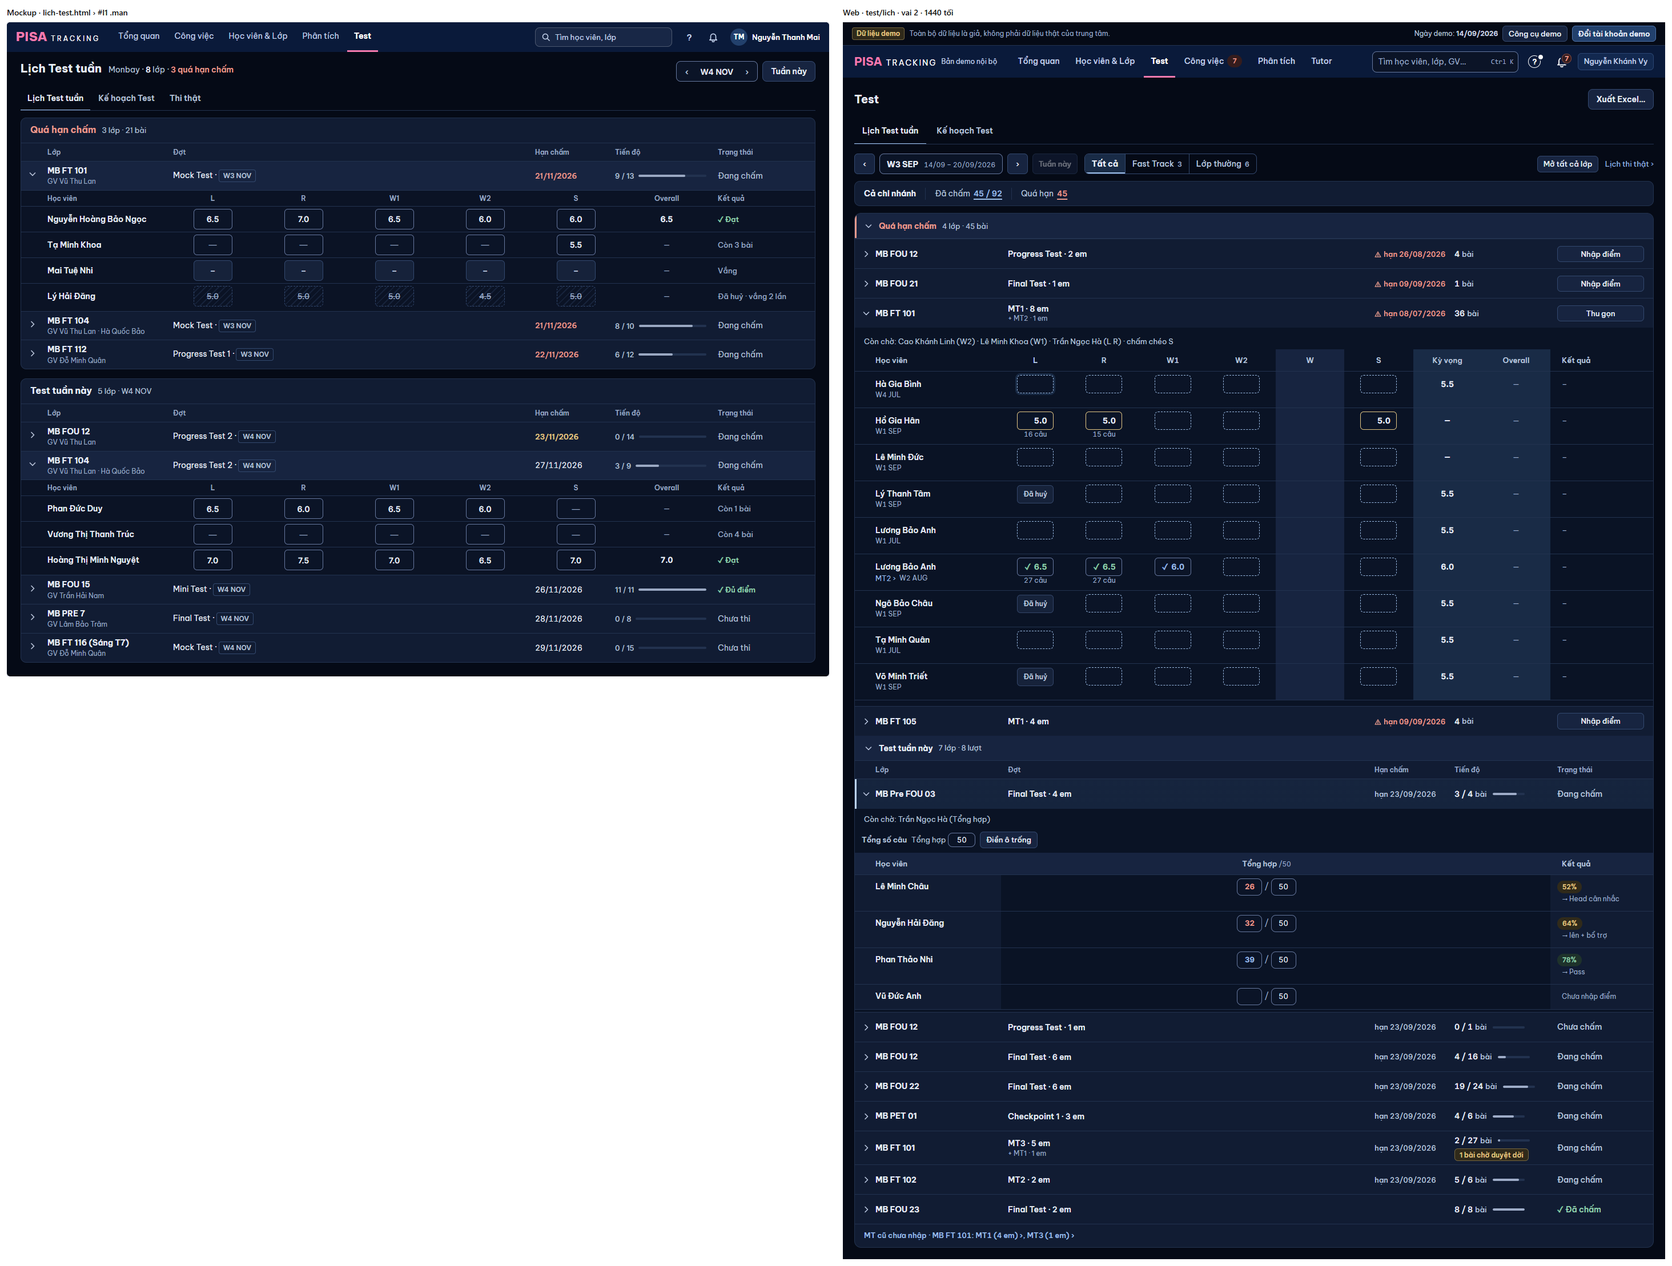
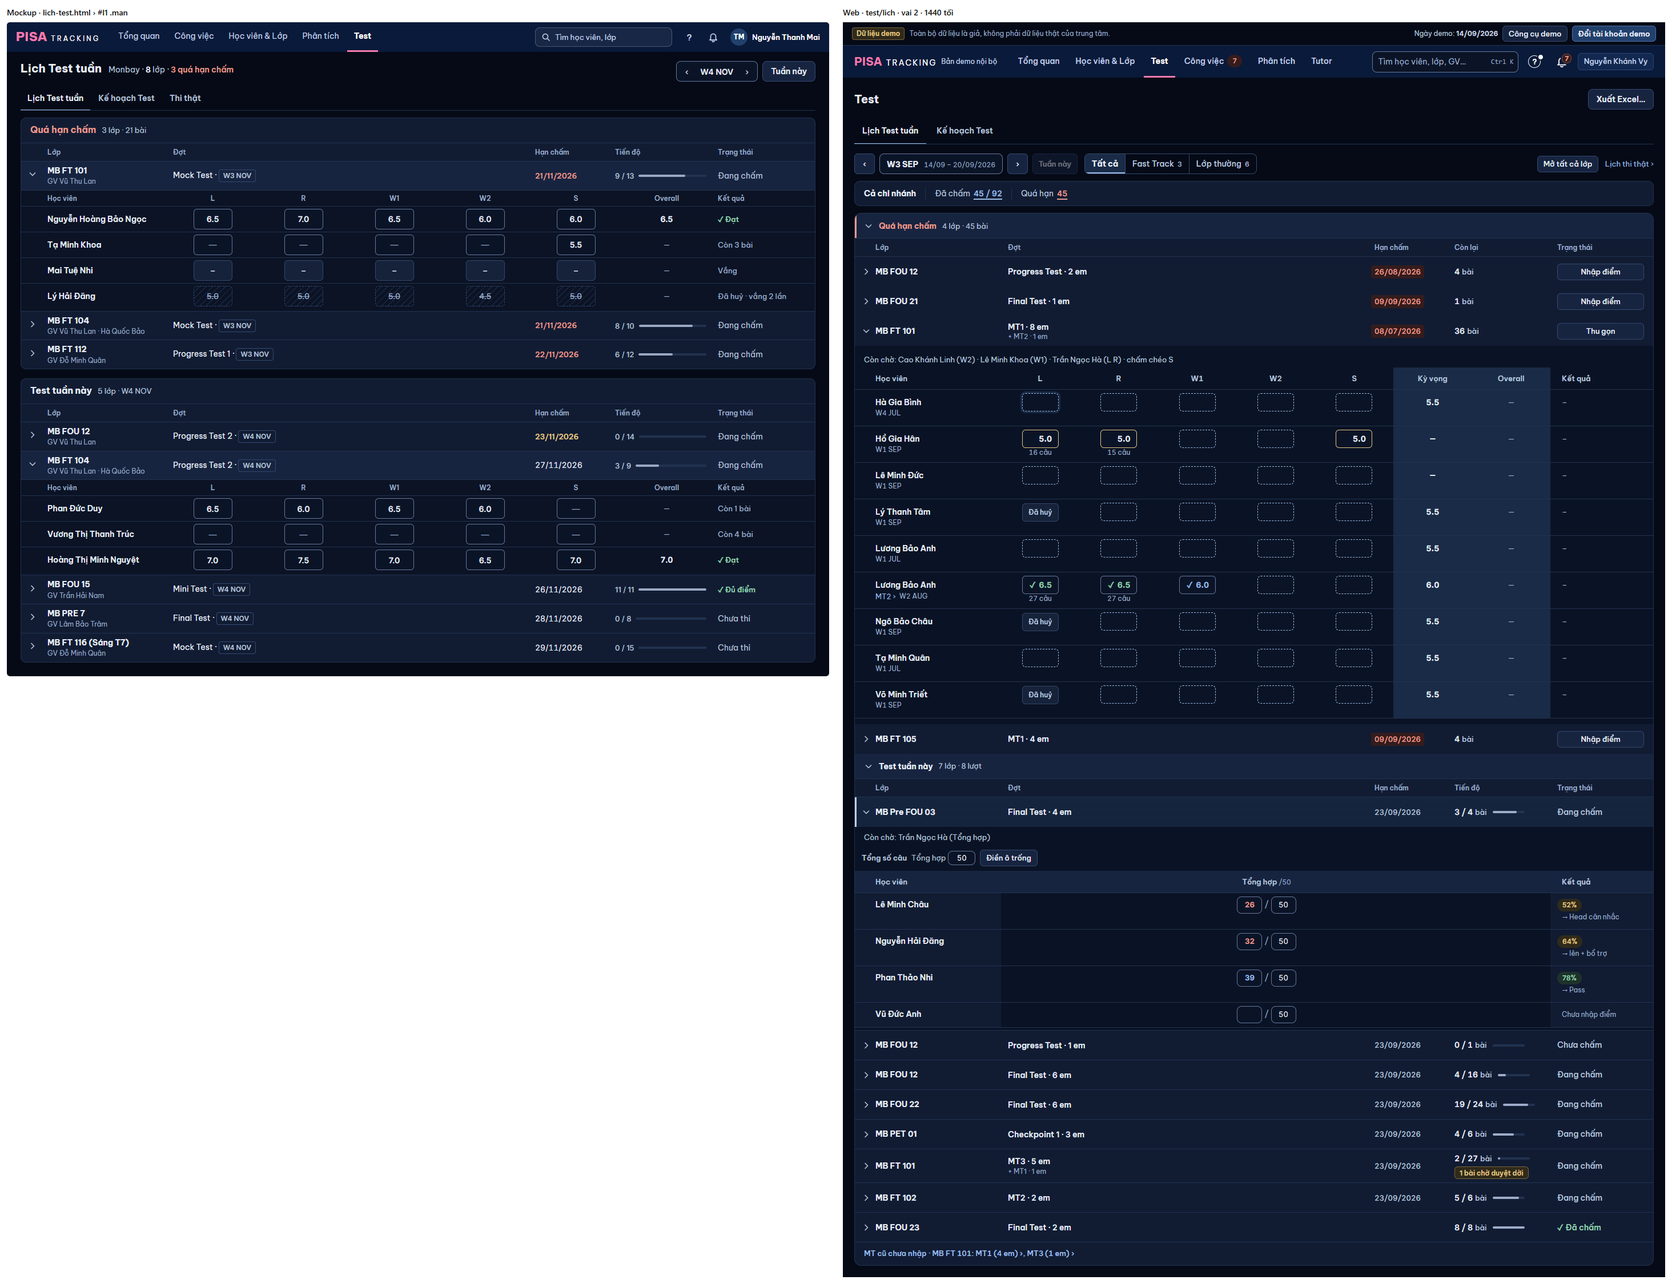
NHẸ HƠN PR-4 (PTA rà #1998): Han trongBang chỉ ngày tô màu; Quá hạn chấm có đầu cột chung; ẩn cột W trống; panel một lớp cũng có khối, lưới hết bề ngang, chân Đã lưu; ảnh Mock C1 / C3

diff --git a/web/src/modules/congViec/PanelNhapDiemTuan.tsx b/web/src/modules/congViec/PanelNhapDiemTuan.tsx
@@ -5,7 +5,8 @@ import { LuoiTrongPanel } from '../../ui/LuoiTrongPanel.tsx';
 import { DauViecCongViec, KhungPanel } from '../../ui/KhungPanel.tsx';
 import { ChipHan } from '../../ui/Nhan.tsx';
 import { MuiChev } from '../../ui/HangNhom.tsx';
-import { dauViec } from '../../ui/KhuonViec.tsx';
+import { ChuLuu, dauViec } from '../../ui/KhuonViec.tsx';
+import { gioVnNay } from './gioVn.ts';
 import { useNgayNghiepVu } from '../../ui/ngayNghiepVu.ts';
 import { duongCham, type Cham } from '../cham/LuoiChamLop.tsx';
 import { LuoiNhung } from '../test/lichTest/LuoiNhung.tsx';
@@ -56,6 +57,9 @@ export function PanelNhapDiemTuan({ it, tuMo, onDong, onDaLam, onTiep }: { it: W
   const [tieuDe] = useState(() => (chiXem ? (motLop && it.tieuDe ? t('Điểm {skills}', { skills: dich(it.tieuDe.replace(/^Nhập điểm /, '')) }) : t('Điểm · {tuan}', { tuan: it.tuanThi ? tuanLich(it.tuanThi) : '' }))
     : motLop && it.tieuDe ? dich(it.tieuDe) : t('Nhập điểm · {tuan}', { tuan: it.tuanThi ? tuanLich(it.tuanThi) : '' })));
   const [mo, setMo] = useState<ReadonlySet<string>>(() => new Set([lop[0].key]));
+  /* NHẸ HƠN (v23 C1 chân "✓ Đã lưu 15:40 · 9 / 16 bài"): giờ lưu ô gần nhất (ô đang lưu / lỗi báo ngay tại ô — không lặp ở chân). */
+  const [luc, setLuc] = useState<string | null>(null);
+  const daLuu = () => { setLuc(gioVnNay()); onDaLam(); };
   const periodId = lop[0].periodId ?? null;
   const dau = dauViec({
     han: it.due ? <ChipHan loai={LOAI_HAN_CUA_VIEC.score ?? 'nhap-diem'} han={it.due} /> : null,
@@ -68,17 +72,20 @@ export function PanelNhapDiemTuan({ it, tuMo, onDong, onDaLam, onTiep }: { it: W
   const luoiLop = (x: WorkItem, lopKhung: string) => (
     <LuoiTrongPanel className={lopKhung}>
       <LuoiNhung chiHv={emCuaViec(x)} classId={x.classId!} periodId={x.periodId ?? null} kind={x.kind ?? null} tuanDangXem={x.tuanThi ?? null} kn={x.kn ?? null}
-                    hrefDayDu={duongLichTest({ classId: x.classId, periodId: x.periodId })} onDaLuu={onDaLam} chiCot={x.kns ?? (x.kn ? [x.kn] : null)}
+                    hrefDayDu={duongLichTest({ classId: x.classId, periodId: x.periodId })} onDaLuu={daLuu} chiCot={x.kns ?? (x.kn ? [x.kn] : null)}
                     emCoBaiTuan={(x.kind ?? 'mock') === 'mock'} luoiGon
                     /* OV-14b: lớp đầu (mở sẵn) cuộn ngang tới cột của việc + con trỏ ở ô trống đầu cột đó; lớp mở sau không giật trang. */
                     datConTro={(!tuMo && !!x.kn && x.key === lop[0].key) || x.key === conTro} onHet={hetLop(x)} />
     </LuoiTrongPanel>
   );
+  const trai = luc ? <span className="text-[13px]"><ChuLuu tt="da" luc={luc} />{motLop && demBai ? <span className="tabular-nums text-dim"> · {t('còn {con} / {tong} bài', demBai)}</span> : null}</span> : null;
+  const chanTiep = chanViecTiep(onTiep, false);
+  const chan = chanTiep || trai ? { ...(chanTiep ?? { huy: null }), trai } : undefined;
   return (
     /* NHẸ HƠN (v23 C1): panel bảng ~75 % (`rong="bang"`). */
-    <KhungPanel hd="nhap-diem" rong="bang" tieuDe={tieuDe} dau={dau} onDong={onDong} chan={chanViecTiep(onTiep, false)} quyChe={quyCheNhapDiem({ thuong: it.khung === 'thuong', mt0: it.kind === 'mt0', tuanThi: it.tuanThi ?? null, homNay, han: it.due })}>
+    <KhungPanel hd="nhap-diem" rong="bang" tieuDe={tieuDe} dau={dau} onDong={onDong} chan={chan} quyChe={quyCheNhapDiem({ thuong: it.khung === 'thuong', mt0: it.kind === 'mt0', tuanThi: it.tuanThi ?? null, homNay, han: it.due })}>
       {chiXem && <p className="m-0 pt-2 text-[13px] text-dim">{t('Chỉ xem · GV / Head nhập')}</p>}
-      {motLop ? luoiLop(lop[0], 'luoi-trong-panel -mx-4 px-5 pt-1') : (
+      {(
       /* NHẸ HƠN (v23 C1 `.kl` → `.pc-kl` ở index.css): MỖI LỚP MỘT KHỐI — đầu khối nổi (nền surface-2, vạch nhấn trái, mã lớp 16 / 700) · đợt + tuần · kỹ năng của bạn · số bài.
          Bấm đầu khối gập / mở (giữ: lưới chỉ tải khi mở — không thêm request). Không cắt chữ, xuống dòng khi chật. */
       <ul className="m-0 grid list-none gap-2 p-0 pt-3">

diff --git a/web/src/ui/Han.tsx b/web/src/ui/Han.tsx
@@ -1,6 +1,7 @@
-import { deadlineView, mucHan, ngayTheoGioVN, type DeadlineKind } from '@shared/domain/index.ts';
+import { deadlineView, mucHan, ngay, ngayTheoGioVN, type DeadlineKind } from '@shared/domain/index.ts';
 import { DauQuaHan, LOP_MUC_HAN } from './Nhan.tsx';
 import { useNgayNghiepVu } from './ngayNghiepVu.ts';
+import { t } from '@shared/i18n/index.ts';
 
 /**
  * MỌI HẠN ĐỀU CÓ LOẠI (HE_GIAO_DIEN §4, đóng lỗi F11).
@@ -18,7 +19,7 @@ import { useNgayNghiepVu } from './ngayNghiepVu.ts';
  *
  * Toàn bộ câu chữ nằm ở `deadlineView` (`shared/domain/display.ts`), mức ở `mucHan` — kiểm được bằng bộ kiểm thử máy chủ. Component này chỉ vẽ.
  */
-export function Han({ loai, han, hanGoc, hen, tienTo, ghiChu, coViec, soNgay, mo }: {
+export function Han({ loai, han, hanGoc, hen, tienTo, ghiChu, coViec, soNgay, mo, trongBang }: {
   loai: DeadlineKind;
   /** Hạn đang hiệu lực, dạng `2026-09-23`. `null` = chưa đặt. */
   han: string | null;
@@ -36,12 +37,22 @@ export function Han({ loai, han, hanGoc, hen, tienTo, ghiChu, coViec, soNgay, mo
   soNgay?: boolean;
   /** Việc của người khác: không tô màu (⚠ vẫn giữ — nói nghĩa không bằng màu). */
   mo?: boolean;
+  /** NHẸ HƠN (NH4, v23 Lịch Test `.han`): ô bảng có đầu cột "Hạn chấm" — CHỈ ngày dd/mm/yyyy tô màu, không chữ "hạn", không ⚠;
+   *  quá hạn thêm nền đỏ nhạt (dấu không chỉ bằng màu chữ). Chữ đầy đủ ở tooltip. */
+  trongBang?: boolean;
 }) {
   const { homNay } = useNgayNghiepVu();
   const v = deadlineView({ kind: loai, due: han, originalDue: hanGoc, reschedule: hen, today: homNay });
   const goc = hanGoc && ngayTheoGioVN(hanGoc) ? hanGoc : han;
   const muc = loai === 'du-kien-ket-thuc' || !goc ? 'xa' : mucHan(goc, homNay);
   const title = v.text + (v.title ? ` · ${v.title}` : '');
+  if (trongBang) {
+    return (
+      <span title={title} className={`whitespace-nowrap text-[13px] tabular-nums ${mo ? LOP_MUC_HAN.xa : LOP_MUC_HAN[muc]} ${muc === 'qua' && !mo ? '-mx-1.5 rounded bg-late-bg px-1.5 py-0.5' : ''}`}>
+        {muc === 'qua' && <span className="sr-only">{t('quá hạn')} </span>}{han ? ngay(han) : v.han}
+      </span>
+    );
+  }
   return (
     <span title={title} className="text-[13px] tabular-nums text-dim">
       {[tienTo, coViec && loai !== 'du-kien-ket-thuc' ? v.viec : null].filter(Boolean).map((x) => `${x} · `).join('')}

diff --git a/web/src/modules/test/lichTest/KhoiNo.tsx b/web/src/modules/test/lichTest/KhoiNo.tsx
@@ -8,7 +8,7 @@ import { chuOChuaLuu } from '@shared/domain/index.ts';
 import type { DongNoLop } from './kieu.ts';
 import { LuoiNhung } from './LuoiNhung.tsx';
 import { useManHinh } from '../../../ui/TheDong.tsx';
-import { COT_LICH_TEST, ColLichTest, DongConCho, DotChinh, ODot, TienDo, Vien, chuConCho, chuDot } from './HangLop.tsx';
+import { COT_LICH_TEST, ColLichTest, DauCotLichTest, DongConCho, DotChinh, ODot, TienDo, Vien, chuConCho, chuDot } from './HangLop.tsx';
 import { dich, t } from '@shared/i18n/index.ts';
 
 /** OV-11e (TE-7): số bài của người xem — người có phân công chỉ đếm phần của mình (dải số, badge khối, cột Còn cùng số). */
@@ -70,6 +70,7 @@ export function KhoiNo({ no, mo, onMo, dongMo, onMoDong, hep, onDaLuu, knUrl, ch
         {/* GD-11a (⑦ A1): hàng Quá hạn cùng bộ cột với hàng lớp (Lớp · Đợt · Hạn · số bài · nút — NHẸ HƠN bỏ Môn) — các bảng thẳng cột. */}
         <table className="lt-bang w-full text-sm bang-dinh" style={{ tableLayout: 'fixed' }}>
           {gon ? <colgroup><col /></colgroup> : <ColLichTest />}
+          {!gon && <DauCotLichTest cot4={t('Còn lại')} />}
           <tbody>
             {ds.map(({ d, xong }, i) => {
               const dangMo = dongMo?.d.key === d.key;
@@ -87,7 +88,7 @@ export function KhoiNo({ no, mo, onMo, dongMo, onMoDong, hep, onDaLuu, knUrl, ch
               const conCho = chuConCho(d.gvMon, d.chuongTrinh);   /* LICH-TEST-GON: ai còn chờ — dòng nhỏ trong phần lớp đã mở, không cột */
               const so = xong ? <Vien muc="xong">{t('Đã chấm')}</Vien> : <TienDo so={conCua(d)} />;
               /* NHẸ HƠN (luật hạn, v23 L1): bảng chỉ tô màu ngày (đỏ + ⚠ quá hạn) — không chip "quá hạn n ngày" (đầu khối đã nói Quá hạn chấm). */
-              const han = xong ? null : <Han loai="nhap-diem" han={d.han} />;
+              const han = xong ? null : <Han loai="nhap-diem" han={d.han} trongBang={!gon} />;
               const canhBao = loi > 0 && <Nhan tone="bad" title={t('Ô viền đỏ chưa lưu được — bấm Lưu lại ở ô đó.')}>{chuOChuaLuu(loi)}</Nhan>;
               const dot = chuDot(d.luot);
               const maLop = <Link to={`/hoc-vien/lop/${d.classId}`} className="lt-ma" title={t('Hồ sơ lớp {classCode}', { classCode: d.classCode })}>{d.classCode}</Link>;

diff --git a/web/src/modules/test/lichTest/HangLop.tsx b/web/src/modules/test/lichTest/HangLop.tsx
@@ -57,6 +57,14 @@ export const TienDo = ({ so, title, ti }: { so: ReactNode; title?: string; ti?: 
  */
 export const COT_LICH_TEST = [256, null, 140, 180, 180] as const;
 export const ColLichTest = () => <colgroup>{COT_LICH_TEST.map((w, i) => <col key={i} style={w ? { width: w } : undefined} />)}</colgroup>;
+/** Hàng tiêu đề cột chung (v23 L1: MỌI nhóm có đầu cột, cùng chữ) — khối Quá hạn chấm đổi cột 4 thành "Còn lại" (chỉ biết số bài còn nợ). */
+export const DauCotLichTest = ({ cot4 = t('Tiến độ') }: { cot4?: string }) => (
+  <thead>
+    <tr className="lt-cot">
+      <th>{t('Lớp')}</th><th>{t('Đợt')}</th><th>{t('Hạn chấm')}</th><th>{cot4}</th><th>{t('Trạng thái')}</th>
+    </tr>
+  </thead>
+);
 
 /**
  * LICH-TEST-GON (chủ SP 19/11: "chữ MT# nhìn rối"): ĐỢT CHÍNH của lớp (đông em nhất) ghi MỘT lần — "MT3 · 5 em"; lượt khác (MT cũ, vắng dời) chỉ một dòng phụ
@@ -145,19 +153,13 @@ export function HangLop({ lop, moCua, onMo, onLopTiep, coChiNhanh, gon, urlClass
   return (
     <table className="lt-bang w-full text-sm bang-dinh" style={{ tableLayout: 'fixed' }}>
       {gon ? <colgroup><col /></colgroup> : <ColLichTest />}
-      {!gon && (
-        <thead>
-          <tr className="lt-cot">
-            <th>{t('Lớp')}</th><th>{t('Đợt')}</th><th>{t('Hạn chấm')}</th><th>{t('Tiến độ')}</th><th>{t('Trạng thái')}</th>
-          </tr>
-        </thead>
-      )}
+      {!gon && <DauCotLichTest />}
       {lop.map((l) => {
         const k = khoaHang(l);
         const mo = moCua(l);
         /* Việc xong không nơi nào còn báo hạn: hạn chỉ khi còn bài (người có phân công: bài của mình). */
         const con = l.phan ? l.conBaiCuaToi : l.conBai;
-        const han = con > 0 ? <Han loai="nhap-diem" han={l.han} /> : null;
+        const han = con > 0 ? <Han loai="nhap-diem" han={l.han} trongBang={!gon} /> : null;
         const { phu: dotPhu, nhanChinh } = chuDot(l.luot);
         const conCho = l.phan ? '' : chuConCho(l.gvMon, l.chuongTrinh);
         const tienDo = <TienDo so={`${l.daCham} / ${l.tong}`} title={t('Đã chấm {daCham} trong {tong} bài', { daCham: l.daCham, tong: l.tong })} ti={l.tong ? l.daCham / l.tong : 0} />;

diff --git a/web/src/index.css b/web/src/index.css
@@ -1904,8 +1904,11 @@ article.hang-nhom-lop { background: var(--hang-lon-bg); box-shadow: inset 3px 0 
   .pc-kl-dau:hover .pc-kl-ma { color: var(--accent); }
   .pc-kl-ma { font-size: 16px; font-weight: 700; white-space: nowrap; }
   .pc-kl-meta { display: flex; flex-wrap: wrap; align-items: center; gap: 2px 0; font-size: 14px; color: var(--text-dim); }
-  .pc-kl-meta > * + *::before { content: '·'; margin: 0 8px; color: var(--text-faint); }
+  .pc-kl-meta > :not(:last-child)::after { content: '·'; margin: 0 8px; color: var(--text-faint); }   /* dấu cuối mục: xuống dòng không mở đầu bằng "·" */
   .pc-kl-meta b { font-weight: 600; color: var(--text); }
+  /* NHẸ HƠN (PTA rà #1998): panel bảng 75 % — lưới lớp thường gọn bỏ cột đệm cuối (A1-14, cho panel 720 cũ): cột Học viên lấy phần còn lại, ô điểm sát mép phải. */
+  .luoi-trong-panel .luoi-thuong-gon .bang > colgroup > col:last-child { width: 0 !important; }
+  .luoi-trong-panel .luoi-thuong-gon .bang > :is(thead, tbody) > tr > :last-child:empty { padding: 0; }
   .lt-the { display: grid; gap: 6px; padding: 6px 0; font-weight: 400; }
   .lt-the .h1 { display: flex; align-items: center; gap: 8px; } .lt-the .h1 > .lt-td, .lt-the .h1 > .lt-vien { margin-left: auto; }
   .lt-the .h2 { display: flex; flex-wrap: wrap; align-items: center; gap: 6px 8px; font-size: 14px; } .lt-the .h2 b { font-weight: 600; }

diff --git a/web/src/modules/cham/LuoiFT.tsx b/web/src/modules/cham/LuoiFT.tsx
@@ -136,7 +136,8 @@ export function LuoiFT({ data, onReload, kn = null, hv = null, gon = false, tuan
     han: !gon,
     /* PR-MT0: lưới chỉ MT0 (`kind=mt0`) — không kỳ vọng. */
     kyVong: !chiCot && !(data.rows.length > 0 && data.rows.every((r) => r.mt0Sos)),
-    w: !chiCot,
+    /* NHẸ HƠN (PTA rà #1998): cột W (máy tính) ẩn khi cả lưới chưa em nào có W — không còn cột nền tô trống. */
+    w: !chiCot && data.rows.some((r) => r.result.verdicts?.some((x: { skill: string; band?: number | null }) => x.skill === 'writing' && x.band != null)),
     ovr: !chiCot,
     kq: !anKetQua,
     chiKq: !!chiCot,

diff --git a/thiet-ke/v23/khop-khac-pr4.md b/thiet-ke/v23/khop-khac-pr4.md
@@ -8,18 +8,23 @@ Mockup: `lich-test.html` L1 / L2, `panel-cham-diem.html` C1 / C3. Kế hoạch: 
 |---|---|---|---|
 | L1: MỘT bộ cột cho mọi bảng lớp (Lớp · Đợt · Hạn chấm · Tiến độ · Trạng thái), bỏ Kỹ năng | `COT_LICH_TEST` = 256 (mũi tên + Lớp) · giãn · 140 · 180 · 180 (`HangLop.tsx`); khối Quá hạn chấm (`KhoiNo.tsx`) cùng `ColLichTest`, bỏ ô Môn | l1 | KHỚP — đo trên ảnh: cột Hạn chấm x = 931 ở Quá hạn chấm và Test tuần này; `do-bang` không lỗi |
 | L1: lưới mở cùng cột tên, các lớp thẳng hàng; Kết quả trùng cột Trạng thái | `.lt-luoi` (td lưới trong `HangLop` / `KhoiNo`): cột tên 256 (tên em thẳng mã lớp, đệm 36), ô điểm chia đều, cột cuối 180 | l1 | KHỚP (≥ 1024; < 1024 giữ thẻ / lưới cuộn như cũ) |
-| L1: hạn chấm = ngày dd/mm/yyyy tô màu, không chip "Quá hạn n ngày" | `<Han loai="nhap-diem">` (PR-1, `mucHan`: đỏ + ⚠ / vàng / thường) ở cả hai khối; lớp xong → trống (giữ) | l1 | KHỚP — web ghi "hạn 23/09/2026" (chữ "hạn" từ `<Han>` của PR-1), mockup chỉ ngày |
+| L1: hạn chấm = ngày dd/mm/yyyy tô màu, không chip "Quá hạn n ngày" | `<Han trongBang>` (prop mới, dùng chung): CHỈ ngày, màu theo `mucHan`; quá hạn thêm nền đỏ nhạt (NH4: dấu không chỉ bằng màu), không ⚠, không chữ "hạn"; lớp xong → trống | l1 | KHỚP |
+| L1: nhóm Quá hạn chấm có hàng đầu cột như Test tuần này | `DauCotLichTest` dùng chung; nút Nhập điểm / Thu gọn ở cột Trạng thái (180, thẳng cột) | l1 | KHỚP — cột 4 ghi "Còn lại" + "n bài": nhóm này chỉ chứa bài CHƯA chấm (quá hạn = chưa có điểm) nên "n / m" luôn 0 / n |
+| L1: dòng GV dưới mã lớp | — | — | **KHÁC → hỏi PTA**: máy chủ chỉ nạp phân công GV cho lớp còn bài của GV khác (QL); hiện cho mọi lớp phải thêm câu Turso |
+| Lưới: cột W trống cả lớp | `LuoiFT` ẩn cột W khi chưa em nào có W | l1 | KHỚP |
 | L1: tiến độ = số + vạch xám mảnh | `TienDo` thêm `ti` → `<i>` vạch 56 px, không màu (`.lt-td > i`) | l1 | KHỚP |
 | L1: trạng thái là chữ (≤ 1 điểm màu / hàng) | `.lt-vien` → chữ, không viên / chấm; "Chờ bạn chấm" đậm, "✓ Đã chấm" xanh | l1 | KHỚP |
 | L1: W1 / W2 tách | lưới FT sẵn có | l1 | GIỮ |
-| L1: lưới không có cột W / Kỳ vọng | lưới web giữ cột W (máy tính, XM-6) và Kỳ vọng | l1 | KHÁC — giữ dữ liệu đã có (không bỏ tính năng) |
+| L1: lưới không có cột Kỳ vọng | lưới web giữ Kỳ vọng (cột W hiện khi có điểm W) | l1 | KHÁC — giữ dữ liệu đã có |
 | L2: 375 thẻ hai dòng, lưới 4–5 ô | thẻ lớp ⑦ A6 sẵn có (bỏ chip môn ở dòng phụ); lưới 375 dạng thẻ từng em sẵn có | l2 | KHỚP phần thẻ; lưới 375 giữ dáng cũ (đã duyệt, không tràn ngang) |
-| C1: panel bảng ~75 % | `PanelNhapDiemTuan` + `PanelNhapDiemLop` → `KhungPanel rong="bang"` | c1, c1b | KHỚP |
-| C1: mỗi lớp một khối, đầu nổi (lớp · đợt + tuần · kỹ năng của bạn · số bài) | `.pc-kl` / `.pc-kl-dau` (nền surface-2, vạch nhấn trái 3 px, mã 16 / 700); bấm đầu khối gập / mở | c1 | KHỚP — một lớp: giữ dáng GD-3 (tên việc + "lớp · tuần · còn n / m" ở đầu panel, lưới ngay dưới) |
-| C1: ô 88 · Kết quả 168 · tên lấy phần còn lại | `LuoiFT` trong panel: ô 112 → 88, Kết quả 132 → 168 | c1b | KHỚP |
+| C1: panel bảng ~75 % | `PanelNhapDiemTuan` + `PanelNhapDiemLop` → `KhungPanel rong="bang"` | c1, c3 | KHỚP |
+| C1: mỗi lớp một khối, đầu nổi (lớp · đợt + tuần · kỹ năng của bạn · số bài) | `.pc-kl` / `.pc-kl-dau` (nền surface-2, vạch nhấn trái 3 px, mã 16 / 700), cả khi một lớp; bấm đầu khối gập / mở | c1 (Mock), phu-c1 (2 khối) | KHỚP — seed không có việc Mock nhiều lớp (Công việc gộp theo lớp × tuần; nhiều khối = cùng lớp nhiều bài) |
+| C1: lưới hết bề ngang | lưới lớp thường gọn: bỏ cột đệm cuối trong panel (cột tên lấy phần còn lại) | phu-c1 | KHỚP |
+| C1: chân "✓ Đã lưu hh:mm · n / m bài" | `ChuLuu` ở `chan.trai` sau mỗi lần lưu ô (+ "còn n / m bài" khi một lớp); Việc tiếp › giữ | — (hiện sau khi lưu) | KHỚP |
+| C1: ô 88 · Kết quả 168 · tên lấy phần còn lại | `LuoiFT` trong panel: ô 112 → 88, Kết quả 132 → 168 | c1 | KHỚP |
 | C1: ô đã huỷ có chip, "−" vắng | `ChipDaHuy` (#1979) · ô vắng sẵn có | l1 (lưới Quá hạn: "Đã huỷ") | GIỮ |
 | Khối "Em này còn" | không còn ở web (grep rỗng) | — | KHỚP sẵn |
-| C3: 375 toàn màn | `KhungPanel` 375 toàn màn (PR-1) · khối lớp xuống dòng, không cắt | c3 | KHỚP |
+| C3: 375 toàn màn | `KhungPanel` 375 toàn màn (PR-1) · khối lớp xuống dòng, không cắt; lưới 375 một kỹ năng một lúc (MotKyNang, giữ) | c3 | KHỚP khung; lưới giữ dáng đã duyệt |
 
 ## Thao tác TRƯỚC → SAU
 | Thao tác | Trước | Sau | |
@@ -34,7 +39,7 @@ Mockup: `lich-test.html` L1 / L2, `panel-cham-diem.html` C1 / C3. Kế hoạch: 
 
 ## [XM] / để sau
 - **Panel 75 % đè danh sách Công việc:** đầu nhóm dính của danh sách bên trái (`HoTroHocVienTab.tsx`, cột min(556 px, 42vw − 48 px)) vẽ đè lên panel `rong="bang"` ở 1440. **PR-2a sửa** (PTA giao 23/11: đầu nhóm dính không đè + cột trái ~330 px khi panel rộng bảng). PR-4 không đụng `HoTroHocVienTab.tsx`.
-- Chữ "hạn" trước ngày ở cột Hạn chấm: do `<Han>` (PR-1) — nếu muốn chỉ ngày như mockup cần prop mới ở `Han.tsx`.
+- Dòng GV dưới mã lớp: cần PTA quyết (thêm câu Turso hay bỏ).
 
 ## Turso
 Không đổi máy chủ, không thêm request: lưới vẫn chỉ tải khi mở / tới gần; panel chấm vẫn chỉ tải lớp đang mở.
